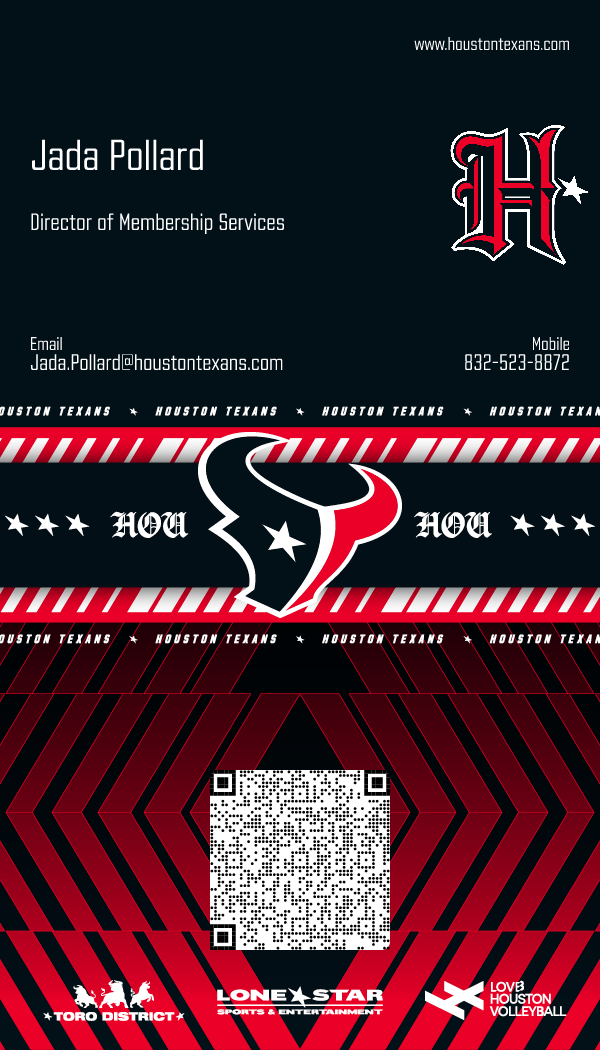
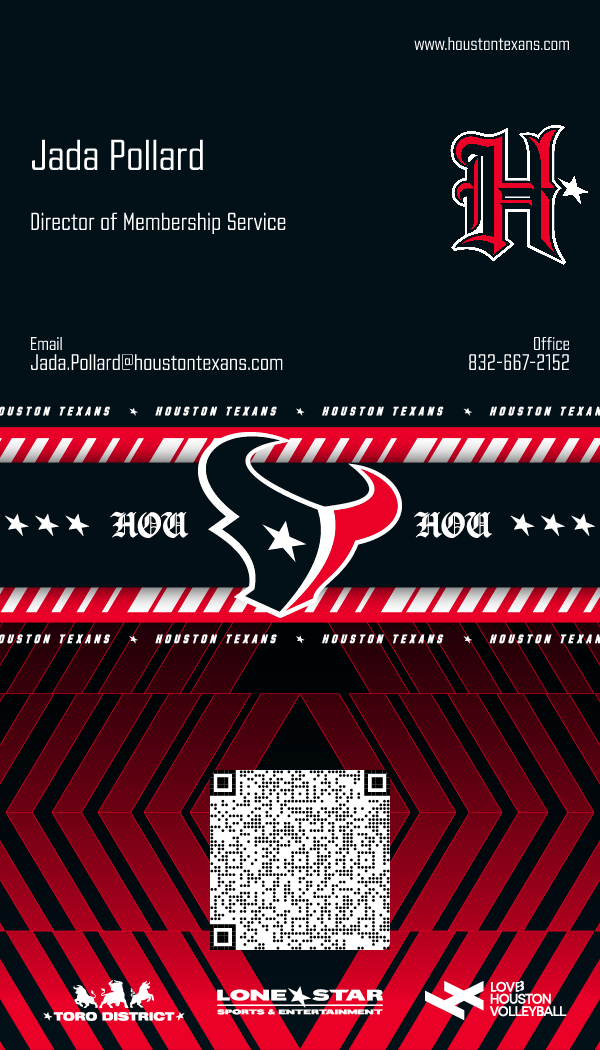
Add business card for Jada Pollard

Changed region(s): [[0.06, 0.1829, 0.48, 0.2438], [0.78, 0.3048, 0.93, 0.3657]]

diff --git a/p/2e02291b.html b/p/2e02291b.html
@@ -4,9 +4,9 @@
   <meta charset="UTF-8">
   <meta name="viewport" content="width=device-width, initial-scale=1.0">
   <title>Jada Pollard — Houston Texans</title>
-  <meta name="description" content="Contact Jada Pollard, Director of Membership Services at Houston Texans">
+  <meta name="description" content="Contact Jada Pollard, Director of Membership Service at Houston Texans">
   <meta property="og:title" content="Jada Pollard — Houston Texans">
-  <meta property="og:description" content="Director of Membership Services">
+  <meta property="og:description" content="Director of Membership Service">
   <link rel="preconnect" href="https://fonts.googleapis.com">
   <link href="https://fonts.googleapis.com/css2?family=Inter:wght@400;500;600;700&display=swap" rel="stylesheet">
   <!-- GA4 -->
@@ -61,7 +61,7 @@
   <div class="hero">
     <div class="hero-img"><img src="https://raw.githubusercontent.com/TexansDigital/texans-business-cards/main/Houston%20Texans%20Logo%20RGB_BULLHEAD%20FC.png" alt="" style="height:64px;object-fit:contain;"></div>
     <h1>Jada Pollard</h1>
-    <p class="sub">Director of Membership Services</p>
+    <p class="sub">Director of Membership Service</p>
     <span class="org">Houston Texans</span>
   </div>
   <div class="ct">
@@ -76,11 +76,17 @@
         </div>
         <div><div class="l">Email</div><div class="v">Jada.Pollard@houstontexans.com</div></div>
       </a>
-      <a href="tel:+18325238872" class="cr" onclick="tr('click_phone')">
+      <a href="tel:+18326672152" class="cr" onclick="tr('click_phone')">
         <div class="ci">
           <svg xmlns="http://www.w3.org/2000/svg" fill="none" viewBox="0 0 24 24" stroke-width="1.5" stroke="currentColor"><path stroke-linecap="round" stroke-linejoin="round" d="M2.25 6.75c0 8.284 6.716 15 15 15h2.25a2.25 2.25 0 002.25-2.25v-1.372c0-.516-.351-.966-.852-1.091l-4.423-1.106c-.44-.11-.902.055-1.173.417l-.97 1.293c-.282.376-.769.542-1.21.38a12.035 12.035 0 01-7.143-7.143c-.162-.441.004-.928.38-1.21l1.293-.97c.363-.271.527-.734.417-1.173L6.963 3.102a1.125 1.125 0 00-1.091-.852H4.5A2.25 2.25 0 002.25 4.5v2.25z"/></svg>
         </div>
-        <div><div class="l">Mobile</div><div class="v">832-523-8872</div></div>
+        <div><div class="l">Office</div><div class="v">832-667-2152</div></div>
+      </a>
+      <a href="https://www.linkedin.com/in/jada-pollard" class="cr" target="_blank" onclick="tr('click_linkedin')">
+        <div class="ci">
+          <svg xmlns="http://www.w3.org/2000/svg" width="18" height="18" viewBox="0 0 24 24" fill="currentColor" style="color:#021018"><path d="M20.447 20.452h-3.554v-5.569c0-1.328-.027-3.037-1.852-3.037-1.853 0-2.136 1.445-2.136 2.939v5.667H9.351V9h3.414v1.561h.046c.477-.9 1.637-1.85 3.37-1.85 3.601 0 4.267 2.37 4.267 5.455v6.286zM5.337 7.433a2.062 2.062 0 01-2.063-2.065 2.064 2.064 0 112.063 2.065zm1.782 13.019H3.555V9h3.564v11.452zM22.225 0H1.771C.792 0 0 .774 0 1.729v20.542C0 23.227.792 24 1.771 24h20.451C23.2 24 24 23.227 24 22.271V1.729C24 .774 23.2 0 22.222 0h.003z"/></svg>
+        </div>
+        <div><div class="l">LinkedIn</div><div class="v">View profile</div></div>
       </a>
     </div>
     <div style="display:flex;flex-direction:column;gap:10px;margin-bottom:24px;">
@@ -99,7 +105,7 @@
   <script>
   function saveContact(){
     tr('save_contact');
[2 lines of base64/hex data omitted]
     var b=new Blob([vc],{type:'text/vcard;charset=utf-8'});
     var u=URL.createObjectURL(b);
     var a=document.createElement('a');
